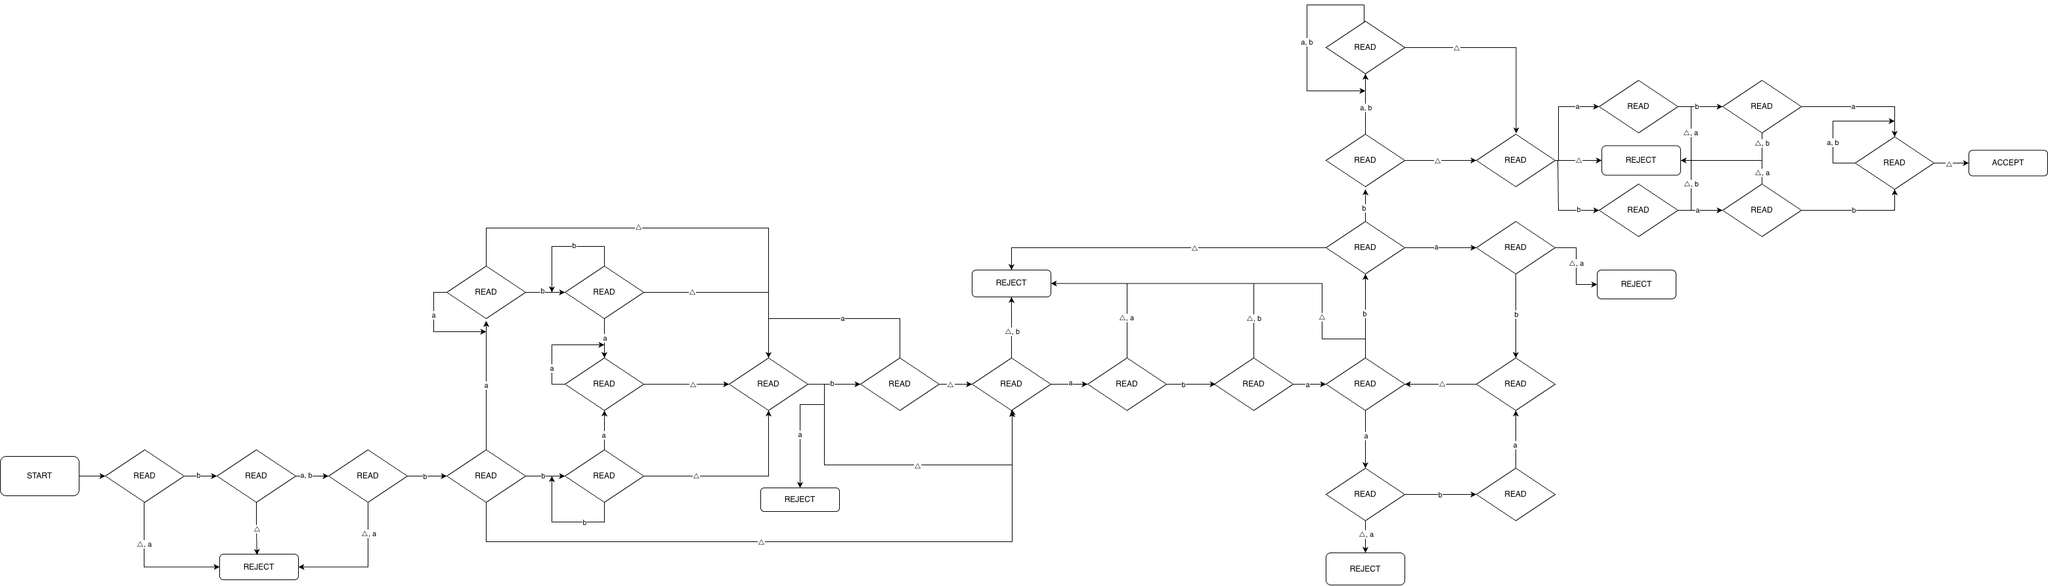
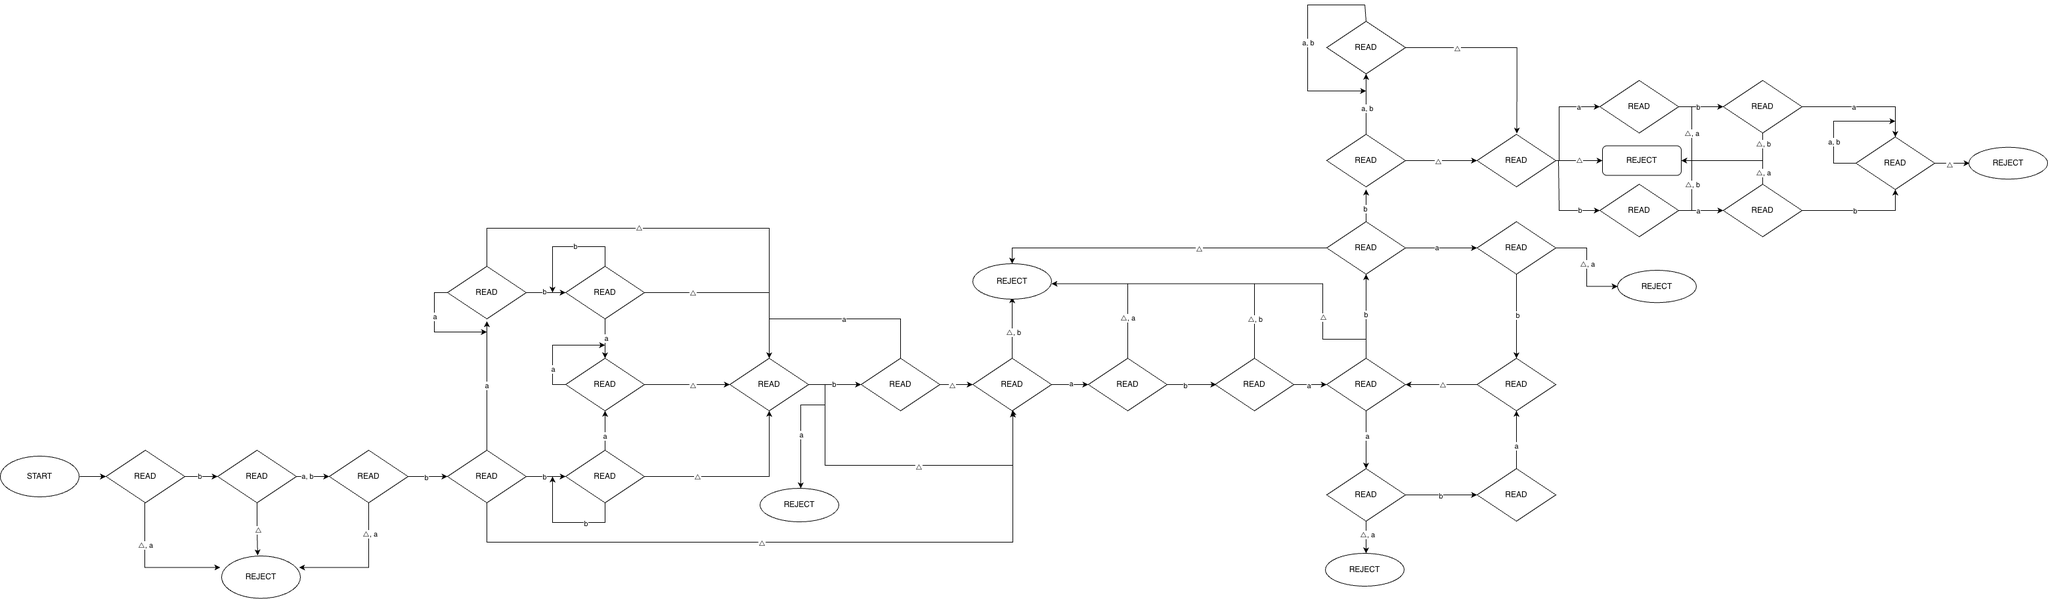
multi line

diff --git a/components/components/TopSection.js b/components/components/TopSection.js
@@ -7,11 +7,17 @@ import {
   Box,
   Divider,
   Tag,
-  Code,
+  Textarea,
+  Table,
+  Thead,
+  Tbody,
+  Tr,
+  Th,
+  Td,
+  Badge,
+  Switch,
+  FormLabel,
 } from "@chakra-ui/react";
-
-import { FaCheck } from "react-icons/fa";
-import { ImCross } from "react-icons/im";
 
 const LeftBox = ({
   handleTest,
@@ -25,6 +31,12 @@ const LeftBox = ({
   count,
   regex1,
   regex2,
+  multiResults,
+  multiString,
+  handleMultiChange,
+  handleMultiTest,
+  isMultiMode,
+  toggleMode,
 }) => {
   return (
     <>
@@ -39,71 +51,160 @@ const LeftBox = ({
         <Divider mb="5" w="115%" />
 
         <Box>
-            <Flex>
-              <Heading
-                w={["4em", "4em", "4em", "4em", "5em", "5em"]}>
-                  Alphabet:
-              </Heading>
-              <Tag
-                my={1} 
-                fontSize={["0.7em", "0.7em", "0.9em"]}>
-                {!prob2 ? "[a, b]" : "[0, 1]"}
-              </Tag>
-            </Flex>
-            <form onSubmit={handleTest}>
-            <Flex 
-              align="center"
-              >
-              <Heading
-                w={["4em", "4em", "4em", "4em", "4em", "7em"]}>
-                Input String:
-              </Heading>
-              <Input
-                maxLength="500"
-                fontSize={["0.7em", "0.7em", "0.9em"]}
-                my={4}
-                placeholder={!prob2 ? "e.g. babababbbab" : "e.g. 01101"}
-                value={string}
-                onChange={handleTextChange}
-              />
-              <Flex align="center">
-                {data && (
-                  <Button
-                    variant="data"
-                    bg={
-                      data.result == "Valid" ?'green.500': 
-                      data.result == "Invalid" && 'red.500'
+          <Flex>
+            <Heading w="5em">Alphabet:</Heading>
+            <Tag my={1} fontSize={["0.7em", "0.7em", "0.9em"]}>
+              {!prob2 ? "[a, b]" : "[0, 1]"}
+            </Tag>
+          </Flex>
+
+          {/* Mode toggle */}
+          <Flex align="center" my="3" gap="3">
+            <FormLabel mb="0" fontSize="sm" color={!isMultiMode ? "white" : "gray.500"}>Single</FormLabel>
+            <Switch
+              isChecked={isMultiMode}
+              onChange={toggleMode}
+              isDisabled={simulating}
+            />
+            <FormLabel mb="0" fontSize="sm" color={isMultiMode ? "white" : "gray.500"}>Multiple Strings</FormLabel>
+          </Flex>
+
+          <form onSubmit={isMultiMode ? handleMultiTest : handleTest}>
+            {!isMultiMode ? (
+              /* ── SINGLE MODE ── */
+              <>
+                 <Flex align="center" w="100%">
+                  <Heading w="10em">Input String:</Heading>
+                  <Input
+                    maxLength="500"
+                    fontSize={["0.7em", "0.7em", "0.9em"]}
+                    my={3}
+                    placeholder={!prob2 ? "e.g. babbabab" : "e.g. 0110101"}
+                    value={string}
+                    onChange={handleTextChange}
+                  />
+               {data && (
+                    <Button
+                      ml={2}
+                      bg={data.result === "Valid" ? "green.500" : "red.400"}
+                      _hover={{}}
+                      cursor="default"
+                      whiteSpace="nowrap"
+                    >
+                      {data.result}
+                    </Button>
+                  )}
+                </Flex>
+
+                <Flex justify="space-between" align="center">
+                  <Flex align="center">
+                    <Button type="submit" disabled={simulating}>
+                      Compile
+                    </Button>
+                    <Button
+                      isLoading={simulating}
+                      loadingText="Simulating..."
+                      spinnerPlacement="start"
+                      onClick={handleSimulation}
+                      ml={2}
+                      disabled={simulating}
+                    >
+                      Simulate
+                    </Button>
+                    <Button
+                      onClick={handleReset}
+                      ml={2}
+                      disabled={simulating}
+                    >
+                      Clear All
+                    </Button>
+                  </Flex>
+                </Flex>
+              </>
+            ) : (
+              /* ── MULTI MODE ── */
+              <>
+                <Flex align="flex-start">
+                  <Heading w="10em" mt={2}>Input Strings:</Heading>
+                  <Textarea
+                    fontSize={["0.7em", "0.7em", "0.9em"]}
+                    my={3}
+                    placeholder={
+                      !prob2
+                        ? "Enter one string per line\ne.g.\nbabbabab\nabba\nbab"
+                        : "Enter one string per line\ne.g.\n0110101\n000\n101"
                     }
-                  >
-                    {data.result}
+                    value={multiString}
+                    onChange={handleMultiChange}
+                    rows={5}
+                    resize="vertical"
+                  />
+                </Flex>
+
+                <Flex mb={3}>
+                  <Button type="submit" disabled={simulating}>
+                    Compile All
                   </Button>
+                  <Button
+                    onClick={handleReset}
+                    ml={2}
+                    disabled={simulating}
+                  >
+                    Clear All
+                  </Button>
+                </Flex>
+
+                {/* Results table */}
+                {multiResults && multiResults.length > 0 && (
+                  <Box
+                    maxH="200px"
+                    overflowY="auto"
+                    borderRadius="md"
+                    border="1px solid"
+                    borderColor="whiteAlpha.300"
+                    mb={3}
+                  >
+                    <Table size="sm" variant="simple">
+                      <Thead position="sticky" top={0} zIndex={1} bg="#403272">
+                        <Tr>
+                          <Th color="#f0e4ff">#</Th>
+                          <Th color="#f0e4ff">String</Th>
+                          <Th color="#f0e4ff">Result</Th>
+                        </Tr>
+                      </Thead>
+                      <Tbody>
+                        {multiResults.map((r, i) => (
+                          <Tr key={i}>
+                            <Td color="#f0e4ff" fontSize="xs">{i + 1}</Td>
+                            <Td>
+                              <Text
+                                fontFamily="mono"
+                                fontSize="xs"
+                                color="white"
+                              >
+                                {r.string === "" ? '""' : r.string}
+                              </Text>
+                            </Td>
+                            <Td>
+                              <Button
+                                size="sm"
+                                bg={r.result === "Valid" ? "green.500" : "red.400"}
+                                _hover={{}}
+                                cursor="default"
+                              >
+                                {r.result}
+                              </Button>
+                            </Td>
+                          </Tr>
+                        ))}
+                      </Tbody>
+                    </Table>
+                  </Box>
                 )}
-              </Flex>
-            </Flex>
-            
-            <Flex justify="space-between" align="center">
-              <Flex>
-                <Button type="submit" disabled={simulating}>
-                  Validate
-                </Button>
-                <Button
-                  isLoading={simulating}
-                  loadingText="Simulating..."
-                  spinnerPlacement="start"
-                  onClick={handleSimulation}
-                  ml={2}
-                  disabled={simulating}
-                >
-                  Simulate
-                </Button>
-                <Button onClick={handleReset}
-                ml={2}
-                >
-                  Clear All
-                </Button>
-              </Flex>
-            </Flex>
-            <Divider my="5" w="115%" />
+              </>
+            )}
+
+            <Divider my="6" />
           </form>
         </Box>
       </Box>

diff --git a/components/Main.js b/components/Main.js
@@ -13,6 +13,46 @@ const Main = () => {
   const [data, setData] = useState("");
   const [count, setCount] = useState(0);
 
+   const [isMultiMode, setIsMultiMode] = useState(false);
+  const [multiString, setMultiString] = useState("");
+  const [multiResults, setMultiResults] = useState([]);
+
+  const toggleMode = () => {
+    setIsMultiMode((prev) => !prev);
+    setMultiResults([]);
+    setData("");
+  };
+
+  const handleMultiChange = (e) => {
+    setMultiString(e.target.value);
+  };
+
+  const handleMultiTest = (e) => {
+    e.preventDefault();
+    const lines = multiString.split("\n").filter((l) => l.trim() !== "");
+    const results = lines.map((line) => {
+      const trimmed = line.trim().toLowerCase();
+      let result;
+      if (!prob2) {
+        if (trimmed === "" || (!trimmed.includes("a") && !trimmed.includes("b"))) {
+          result = "Invalid";
+        } else {
+          const dfa = new DFA(trimmed, problem1, language1);
+          result = dfa.result;
+        }
+      } else {
+        if (trimmed === "" || (!trimmed.includes("0") && !trimmed.includes("1"))) {
+          result = "Invalid";
+        } else {
+          const dfa = new DFA(trimmed, problem2, language2);
+          result = dfa.result;
+        }
+      }
+      return { string: trimmed, result };
+    });
+    setMultiResults(results);
+  };
+
   const [prob2, setProb2] = useState(false);
   const [currentNode, setCurrentNode] = useState(0);
   const [simulating, setSimulating] = useState(false);
@@ -37,8 +77,10 @@ const Main = () => {
     setString("");
     setCount(0);
     setData("");
-    setSimulating(false);  
-    setCurrentNode(0);   
+    setMultiString("");
+    setMultiResults([]);
+    setSimulating(false);
+    setCurrentNode(0);
     setSimulationCompleted(false);
     closeAll();
   };
@@ -203,6 +245,12 @@ const Main = () => {
         count={count}
         regex1={regex1}
         regex2={regex2}
+        isMultiMode={isMultiMode}
+        toggleMode={toggleMode}
+        multiString={multiString}
+        handleMultiChange={handleMultiChange}
+        handleMultiTest={handleMultiTest}
+        multiResults={multiResults}
       />
       <BottomSection
         prob2={prob2}

diff --git a/components/components/CFG.js b/components/components/CFG.js
@@ -40,8 +40,8 @@ const CFG = ({ prob2 }) => {
                 <Text>{"D -> B | C"}</Text>
                 <Text>{"E -> baE | Λ"}</Text>
                 <Text>{"F -> babF | abaF | Λ"}</Text>
-                <Text>{"G -> bab | aba"}</Text>
-                <Text>{"H -> aH | bH | Λ"}</Text>
+                <Text>{"G -> aG | bG | Λ"}</Text>
+                <Text>{"H -> bab | aba"}</Text>
               </VStack>
             ) : (
               <VStack> 